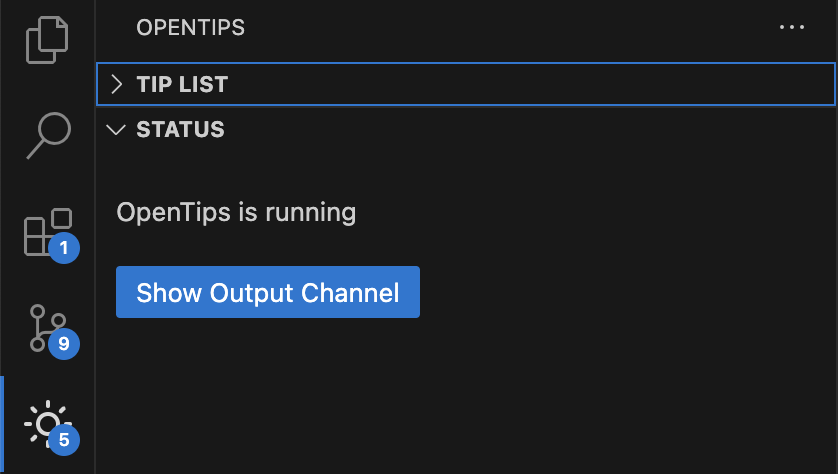
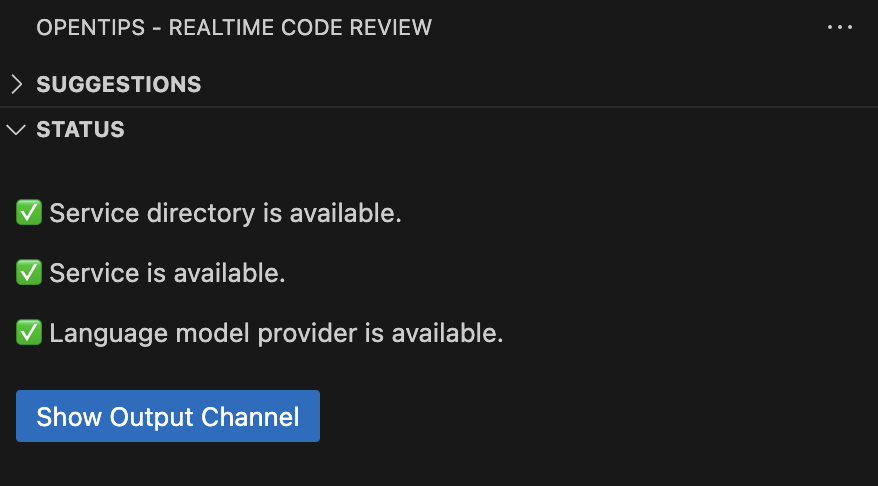
feat: Add priority display

Changed region(s): [[0.0, 0.4135, 0.5895, 0.7679], [0.0, 0.0295, 1.0, 0.3249], [0.0, 0.7975, 0.3723, 1.0]]

diff --git a/src/tip-tree.ts b/src/tip-tree.ts
@@ -3,6 +3,13 @@ import { Tip } from "./tips";
 import path from "path";
 import { logger } from "./extension-point/logger";
 
+const PRIORITY_INDEXES: Record<string, number> = {
+  high: 3,
+  normal: 2,
+  medium: 2,
+  low: 1,
+};
+
 class TipListProvider implements vscode.TreeDataProvider<string | Tip> {
   public _tips: Tip[] = [];
   private _filteredTips: Tip[] | null = null;
@@ -49,7 +56,7 @@ class TipListProvider implements vscode.TreeDataProvider<string | Tip> {
   getTreeItem(element: string | Tip): vscode.TreeItem {
     if (typeof element === "string") {
       return {
-        label: `${element}`,
+        label: `${element} priority`,
         collapsibleState: vscode.TreeItemCollapsibleState.Expanded,
       };
     } else {
@@ -58,7 +65,7 @@ class TipListProvider implements vscode.TreeDataProvider<string | Tip> {
       return {
         iconPath,
         id: element.id,
-        label: `${fileName}:${element.line} - ${element.label}`,
+        label: `${element.type} - ${element.label} - ${fileName}:${element.line}`,
         tooltip: element.description,
         contextValue: "opentips.tip",
         command: {
@@ -74,15 +81,20 @@ class TipListProvider implements vscode.TreeDataProvider<string | Tip> {
     if (typeof element === "string") {
       return null;
     } else {
-      return element.type;
+      return element.priority;
     }
   }
 
   getChildren(element?: string | Tip): Thenable<(string | Tip)[]> {
     if (element === undefined) {
-      return Promise.resolve(Array.from(new Set(this.filteredTips.map((tip) => tip.type)), (type) => type).sort());
+      const observedPriorities = Array.from(new Set(this.filteredTips.map((tip) => tip.priority)));
+      const prioritySortOrder = (priority: string) => PRIORITY_INDEXES[priority] ?? 0;
+      observedPriorities.sort((a, b) => {
+        return prioritySortOrder(b) - prioritySortOrder(a);
+      });
+      return Promise.resolve(observedPriorities);
     } else if (typeof element === "string") {
-      return Promise.resolve(this.filteredTips.filter((tip) => tip.type === element));
+      return Promise.resolve(this.filteredTips.filter((tip) => tip.priority === element));
     } else {
       return Promise.resolve([]);
     }

diff --git a/src/rpc-client.ts b/src/rpc-client.ts
@@ -2,9 +2,30 @@ import { JSONRPCClient } from "json-rpc-2.0";
 
 import EventEmitter from "events";
 import { logger } from "./extension-point/logger";
-import { Tip, TipEvent } from "./tips";
+import { decodeTipId, Tip, TipEvent } from "./tips";
+import assert from "assert";
 
 const FETCH_TIMEOUT = 60 * 1000;
+
+/**
+ * Patch the tip object to ensure it has all required fields. This ensures that
+ * older tip data can be loaded into the newer tip model.
+ */
+function patchTip(tipData: Partial<Tip>): Tip {
+  // Ensure the tip has "priority"
+  // If there are problems with this or other tip format migrations, parse the tip id
+  // to extract the version, id digest, and directory and utilize the version information.
+  assert(tipData.id, "Tip id is required");
+  const tipId = decodeTipId(tipData.id);
+
+  if (tipId.version === "1.0") {
+    if (!tipData.priority) {
+      logger(`[rpc-client] Setting priority=medium for tip ${tipId.id} (tip version is 1.0)`);
+      tipData.priority = "medium";
+    }
+  }
+  return tipData as Tip;
+}
 
 /**
  * JSON-RPC client for the OpenTips server.
@@ -39,7 +60,7 @@ export class OpenTipsJSONRPCClient {
 
   async fetchTip(tipId: string): Promise<Tip> {
     logger(`[rpc-client] Fetching tip ${tipId}`);
-    return await this.client.request("fetch_tip", { tip_id: tipId });
+    return patchTip(await this.client.request("fetch_tip", { tip_id: tipId }));
   }
 
   async listTips(limit?: number): Promise<Tip[]> {
@@ -47,7 +68,7 @@ export class OpenTipsJSONRPCClient {
     const params: any = {};
     if (limit) params.limit = limit;
 
-    return await this.client.request("list_tips", params);
+    return (await this.client.request("list_tips", params)).map(patchTip);
   }
 
   async suggest(newOnly = false): Promise<void> {

diff --git a/src/tips.ts b/src/tips.ts
@@ -5,6 +5,7 @@ import resolveWorkspaceFolder from "./resolve-workspace-folder";
 import { OpenTipsJSONRPCClient } from "./rpc-client";
 
 export type TipId = {
+  version: string;
   directory: string;
   id: string;
 };
@@ -21,14 +22,14 @@ export function decodeTipId(encodedTipId: string): TipId {
   let version: string, directory: string, id: string;
   if (lines.length === 3) {
     [version, directory, id] = lines;
-    if (version !== "1.0") throw new Error(`Unsupported tip id version: ${version}`);
+    if (version !== "1.0" && version !== "1.1") throw new Error(`Unsupported tip id version: ${version}`);
   } else {
     throw new Error(`Invalid tip id: ${encodedTipId}`);
   }
 
   // TODO: Consider other lines length?
 
-  return { directory, id };
+  return { version, directory, id };
 }
 
 export interface Tip {
@@ -36,11 +37,12 @@ export interface Tip {
   directory: string;
   file: string;
   line: number;
-  context: string;
   type: string;
-  complexity: string;
-  label: any;
+  label: string;
   description: string;
+  priority: string;
+  complexity: string;
+  context: string;
 }
 
 export interface TipList {

diff --git a/src/extension.ts b/src/extension.ts
@@ -74,7 +74,9 @@ class AppEvents implements IAppEvents {
   tipsReceived(tips: Tip[]): void {
     logger(`[app-events] ${tips.length} tips received:`);
     for (const tip of tips) {
-      logger(`[app-events]   ${tip.file}:${tip.line} - ${tip.type} - ${tip.complexity} - ${tip.description}`);
+      logger(
+        `[app-events]   ${tip.file}:${tip.line} - ${tip.type} - ${tip.priority} - ${tip.complexity} - ${tip.description}`
+      );
       logger(`[app-events]     ${tip.context}`);
     }
 

diff --git a/src/webviews/status-panel.ts b/src/webviews/status-panel.ts
@@ -24,7 +24,7 @@ export class StatusPanelViewProvider implements vscode.WebviewViewProvider, vsco
   }
 
   async updateContent() {
-    const contentSections = ["## OpenTips Status", ""];
+    const contentSections = [];
 
     const renderStartingContent = () => contentSections.push(`OpenTips is initializing...`);
 

diff --git a/README.md b/README.md
@@ -105,7 +105,7 @@ If OpenTips is not fully running and configured, you can use the information pro
 OpenTips uses a large-language model (LLM) to provide suggestions. You can choose between the two following ways of providing an LLM to OpenTips:
 
 1. **GitHub Copilot**: If you have GitHub Copilot installed, OpenTips will use it as the language model provider. This is an easy way to use OpenTips, as you don't need to provide any additional configuration.
-2. **Use your Claude API key from Anthropic**: For standalone functionality without requiring GitHub Copilot. This will allow OpenTips to use the Anthropic API as the language model provider.
+2. **Anthropic Claude API Key**: For standalone functionality without requiring GitHub Copilot. This will allow OpenTips to use the Anthropic API as the language model provider.
 
 ## `opentips` Python Service
 
